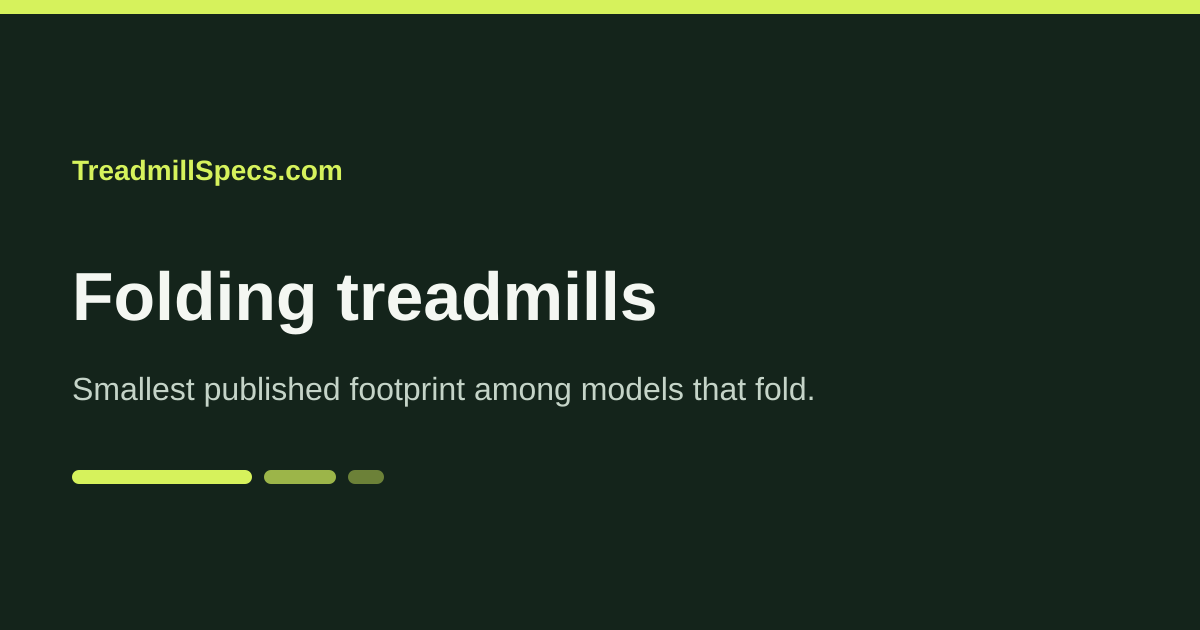
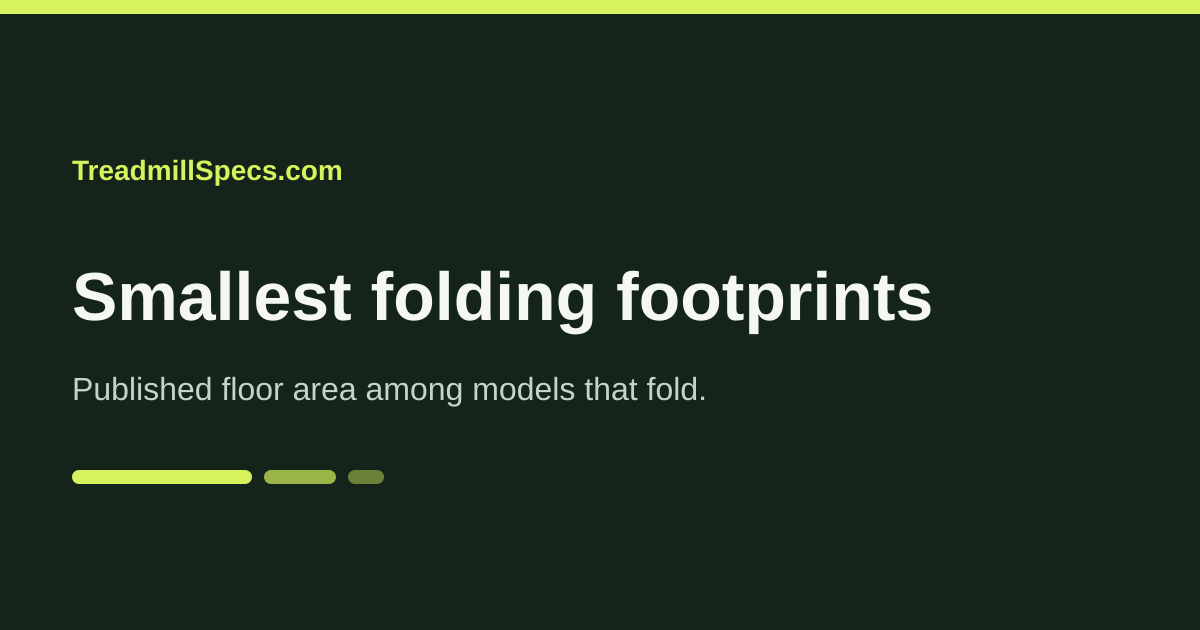
Fix comparison titles, rename the folding list, and stop 390px overflow. (#10)
Comparison titles no longer drop the model after "vs". The folding list is named for footprint, and only pairs with a unique written verdict stay indexable.

Changed region(s): [[0.0617, 0.4222, 0.8017, 0.5429], [0.0617, 0.6032, 0.6783, 0.6635]]

diff --git a/src/styles/global.css b/src/styles/global.css
@@ -57,9 +57,11 @@
   }
 }
 * { box-sizing: border-box; }
-html { scroll-padding-top: 5rem; }
+html { scroll-padding-top: 5rem; overflow-x: clip; }
 body {
   margin: 0;
+  max-width: 100%;
+  overflow-x: clip;
   background: var(--paper);
   color: var(--ink);
   font-family: var(--sans);
@@ -69,7 +71,7 @@ body {
 }
 a { color: var(--accent-dark); text-underline-offset: 2px; }
 a:hover { color: var(--accent); }
-.wrap { max-width: 1120px; margin: 0 auto; padding: 0 20px; }
+.wrap { max-width: 1120px; margin: 0 auto; padding: 0 20px; min-width: 0; }
 h1, h2, h3, h4 { font-family: var(--disp); line-height: 1.12; margin: 0; letter-spacing: -0.02em; }
 h2 { font-size: clamp(1.6rem, 3vw, 2.15rem); font-weight: 700; margin: 0 0 12px; }
 h3 { font-size: 1.2rem; font-weight: 650; }
@@ -79,7 +81,7 @@ p { margin: 0 0 1em; }
 .muted { color: var(--muted); }
 .skip {
   position: absolute; left: -999px; top: 0.6rem; background: var(--card); color: var(--ink);
-  padding: 0.5rem 0.8rem; z-index: 100;
+  min-height: 44px; padding: 10px 12px; z-index: 100;
 }
 .skip:focus { left: 0.6rem; }
 
@@ -93,6 +95,7 @@ header.site {
 .brand {
   font-family: var(--disp); font-weight: 700; font-size: 1.45rem; letter-spacing: -0.03em;
   color: var(--steel-ink); text-decoration: none; white-space: nowrap;
+  display: inline-flex; flex-direction: column; justify-content: center; min-height: 44px;
 }
 .brand span { color: var(--lane); }
 .brand small {
@@ -102,15 +105,16 @@ header.site {
 nav.main { margin-left: auto; }
 nav.main ul { display: flex; gap: 4px; list-style: none; margin: 0; padding: 0; flex-wrap: wrap; }
 nav.main a {
-  display: block; padding: 8px 12px; color: var(--steel-ink); text-decoration: none;
+  display: inline-flex; align-items: center; justify-content: center; min-height: 44px; min-width: 44px;
+  padding: 10px 14px; color: var(--steel-ink); text-decoration: none;
   font-weight: 650; font-size: 0.95rem; border-radius: 999px;
 }
 nav.main a:hover, nav.main a[aria-current='page'] { background: rgba(255,255,255,0.1); }
 nav.main a[aria-current='page'] { box-shadow: inset 0 -2px 0 var(--lane); }
 
-main { padding-bottom: 48px; }
+main { padding-bottom: 48px; min-width: 0; max-width: 100%; }
 .hero { padding: 36px 0 8px; }
-.hero-grid { display: grid; grid-template-columns: minmax(0, 1.15fr) minmax(260px, 0.85fr); gap: 28px; align-items: center; }
+.hero-grid { display: grid; grid-template-columns: minmax(0, 1.15fr) minmax(260px, 0.85fr); gap: 28px; align-items: center; min-width: 0; }
 .hero h1 { font-size: clamp(2rem, 4.4vw, 3.1rem); font-weight: 700; max-width: 18ch; }
 .hero-art { margin: 0; }
 .hero-art svg { width: 100%; height: auto; display: block; }
@@ -147,12 +151,12 @@ main { padding-bottom: 48px; }
 .pagehead { padding: 34px 0 8px; }
 .pagehead h1 { font-size: clamp(1.9rem, 4vw, 2.8rem); }
 .crumbs { font-family: var(--mono); font-size: 0.78rem; color: var(--muted); margin-bottom: 10px; }
-.crumbs a { color: var(--muted); }
+.crumbs a { color: var(--muted); display: inline-flex; align-items: center; min-height: 44px; min-width: 44px; padding: 8px 4px; }
 .byline { color: var(--muted); font-size: 0.92rem; }
 
-.grid3, .grid2 { display: grid; gap: 16px; margin-top: 16px; }
-.grid3 { grid-template-columns: repeat(3, 1fr); }
-.grid2 { grid-template-columns: repeat(2, 1fr); }
+.grid3, .grid2 { display: grid; gap: 16px; margin-top: 16px; min-width: 0; }
+.grid3 { grid-template-columns: repeat(3, minmax(0, 1fr)); }
+.grid2 { grid-template-columns: repeat(2, minmax(0, 1fr)); }
 .card {
   background: var(--card); border: 1px solid var(--line-strong); border-radius: 14px; padding: 16px 18px;
   box-shadow: 0 1px 0 rgba(20, 36, 27, 0.04);
@@ -164,7 +168,7 @@ a.card:hover { border-color: var(--accent); }
 .go { color: var(--accent-dark); font-weight: 700; }
 
 .finder {
-  background: var(--card); border: 1px solid var(--steel); border-radius: 16px; margin-top: 22px;
+  background: var(--card); border: 1px solid var(--steel); border-radius: 16px; margin-top: 22px; min-width: 0; max-width: 100%;
 }
 .finder-head {
   background: var(--steel); color: var(--steel-ink); padding: 12px 16px; border-radius: 15px 15px 0 0;
@@ -173,23 +177,25 @@ a.card:hover { border-color: var(--accent); }
 }
 .finder-head span { font-size: 0.85rem; color: #c5d4c8; }
 .finder-body { padding: 16px; }
-.f-grid { display: grid; grid-template-columns: repeat(3, 1fr); gap: 12px; }
+.f-grid { display: grid; grid-template-columns: repeat(3, minmax(0, 1fr)); gap: 12px; min-width: 0; }
 label { display: block; font-weight: 650; font-size: 0.95rem; margin-bottom: 6px; }
 input, select, textarea {
-  width: 100%; padding: 11px 12px; font: inherit; color: var(--ink); background: var(--paper);
+  width: 100%; min-height: 44px; padding: 10px 12px; font: inherit; color: var(--ink); background: var(--paper);
   border: 1.5px solid var(--line-strong); border-radius: 8px;
 }
 .f-btn, button.primary, .btn {
-  display: inline-block; background: var(--accent); color: #fff; border: 0; font: inherit; font-weight: 700;
+  display: inline-flex; align-items: center; justify-content: center; min-height: 44px; min-width: 44px;
+  background: var(--accent); color: #fff; border: 0; font: inherit; font-weight: 700;
   padding: 12px 18px; border-radius: 8px; cursor: pointer; text-decoration: none;
 }
 .f-btn { width: 100%; margin-top: 14px; }
 .f-btn:hover, button.primary:hover, .btn:hover { background: var(--accent-dark); color: #fff; }
 button.primary { margin-top: 12px; }
 
-.tblwrap { overflow-x: auto; border: 1px solid var(--line-strong); border-radius: 12px; background: var(--card); margin: 12px 0; }
+.tblwrap { display: block; width: 100%; max-width: 100%; overflow-x: auto; -webkit-overflow-scrolling: touch; border: 1px solid var(--line-strong); border-radius: 12px; background: var(--card); margin: 12px 0; }
 table { border-collapse: collapse; width: 100%; min-width: 640px; }
 th, td { padding: 10px 12px; text-align: left; border-bottom: 1px solid var(--line); vertical-align: top; }
+td a, th a { display: inline-flex; align-items: center; min-height: 44px; min-width: 44px; padding: 8px 10px; }
 th { background: var(--steel); color: var(--steel-ink); font-family: var(--disp); font-weight: 650; font-size: 0.95rem; }
 tr:last-child td { border-bottom: 0; }
 td.unpub { color: var(--muted); font-style: italic; }
@@ -208,11 +214,12 @@ td.unpub { color: var(--muted); font-style: italic; }
 .amz-note { background: var(--warn-bg); color: var(--warn-ink); border-radius: 8px; padding: 8px 10px; font-size: 0.86rem; }
 
 details.faq { background: var(--card); border: 1px solid var(--line-strong); border-radius: 12px; margin-bottom: 8px; }
-details.faq summary { cursor: pointer; font-weight: 700; padding: 12px 14px; }
+details.faq summary { cursor: pointer; font-weight: 700; padding: 12px 14px; min-height: 44px; display: flex; align-items: center; }
 details.faq .a { padding: 0 14px 12px; color: var(--muted); }
 
-.prose { max-width: 72ch; }
+.prose { max-width: 72ch; min-width: 0; }
 .prose h2 { margin-top: 28px; }
+main p a, main li a, main h2 a, main h3 a, main h4 a { display: inline-flex; align-items: center; min-height: 44px; padding: 8px 4px; }
 .prose ul, .prose ol { padding-left: 1.2em; }
 .prose li { margin: 0.35em 0; }
 
@@ -236,7 +243,7 @@ footer.site { background: var(--steel); color: #c5d0c7; margin-top: 48px; border
 footer.site h2, footer.site .foot-h { font-family: var(--disp); color: var(--steel-ink); font-size: 1rem; margin: 0 0 8px; }
 footer.site ul { list-style: none; margin: 0; padding: 0; }
 footer.site li { margin: 0 0 6px; }
-footer.site a { color: #c5d0c7; text-decoration: none; }
+footer.site a { color: #c5d0c7; text-decoration: none; display: inline-flex; align-items: center; min-height: 44px; min-width: 44px; padding: 8px 4px; }
 footer.site a:hover { color: #fff; text-decoration: underline; }
 .foot-brand { font-family: var(--disp); font-weight: 700; font-size: 1.4rem; color: var(--steel-ink); margin: 0; }
 .foot-brand span { color: var(--lane); }

diff --git a/src/lib/seo.ts b/src/lib/seo.ts
@@ -17,12 +17,21 @@ function shorten(input: string, maxHtml: number): string {
 
 export function serpTitle(input: string): string {
   const primary = input.replace(/\s+/g, ' ').trim().replace(/\s*\|\s*TreadmillSpecs(?:\.com)?\s*$/i, '');
+  if (!primary) return BRAND;
   const branded = `${primary}${SEP}${BRAND}`;
+  const versus = primary.match(/^(.+?)\s+vs\s+(.+)$/i);
+  if (versus) {
+    const left = versus[1].trim();
+    const right = versus[2].trim();
+    if (!left || !right) return primary;
+    if (htmlLen(branded) <= 60 && branded.includes(left) && branded.includes(right)) return branded;
+    return primary;
+  }
   if (primary.length >= 15 && htmlLen(branded) <= 60) return branded;
   const fitted = shorten(primary, 60 - htmlLen(SEP + BRAND));
-  if (fitted.length >= 15 && htmlLen(`${fitted}${SEP}${BRAND}`) <= 60) return `${fitted}${SEP}${BRAND}`;
-  const bare = shorten(primary, 60);
-  return bare.length >= 12 ? bare : shorten(`${primary} treadmill specs`, 60);
+  if (fitted.length >= 15 && htmlLen(`${fitted}${SEP}${BRAND}`) <= 60 && !/\svs$/i.test(fitted)) return `${fitted}${SEP}${BRAND}`;
+  const bare = shorten(primary, 70);
+  return bare.length >= 12 ? bare : primary;
 }
 
 export function metaDescription(input: string): string {

diff --git a/src/lib/llms.ts b/src/lib/llms.ts
@@ -27,8 +27,8 @@ export function llmsTxt(): string {
     `- [Will it fit](${abs('/will-it-fit/')}): room, ceiling, and user height against published footprint and published clearances.`,
     `- [Best for small spaces](${abs('/compare/best-for-small-spaces/')}): unfolded length times width.`,
     `- [Best for low ceilings](${abs('/compare/best-for-low-ceilings/')}): unfolded height, plus published ceiling rules.`,
-    `- [Best folding treadmills](${abs('/compare/best-folding/')}): models the manufacturer says fold, ranked by published floor area. No price cutoff.`,
-    `- [Compare](${abs('/compare/')}): maintained guides where the published specs support a choice. Other pairs open from the form and are noindex.`,
+    `- [Smallest folding footprints](${abs('/compare/smallest-folding-footprints/')}): models the manufacturer says fold, ranked by published floor area. No price cutoff.`,
+    `- [Compare](${abs('/compare/')}): pairs with a unique hand-written verdict. Other pairs open from the form and are noindex.`,
     '',
     '## Maintained comparisons',
     '',

diff --git a/src/data/comparison-copy.ts b/src/data/comparison-copy.ts
@@ -288,6 +288,22 @@ export function getComparisonCopy(slug: string): ComparisonCopy | undefined {
   return comparisonCopy.find((item) => item.slug === slug);
 }
 
+/** Pairs with a unique non-empty hand-written verdict. Templated or duplicate verdicts stay out. */
+export function indexableComparisonSlugs(): string[] {
+  const counts = new Map<string, number>();
+  for (const item of comparisonCopy) {
+    const verdict = item.verdict.trim();
+    if (!verdict) continue;
+    counts.set(verdict, (counts.get(verdict) ?? 0) + 1);
+  }
+  return comparisonCopy
+    .filter((item) => {
+      const verdict = item.verdict.trim();
+      return verdict.length > 0 && counts.get(verdict) === 1;
+    })
+    .map((item) => item.slug);
+}
+
 export function comparisonsForModel(slug: string): ComparisonCopy[] {
   return comparisonCopy.filter((item) => item.slug.split('-vs-').includes(slug));
 }
